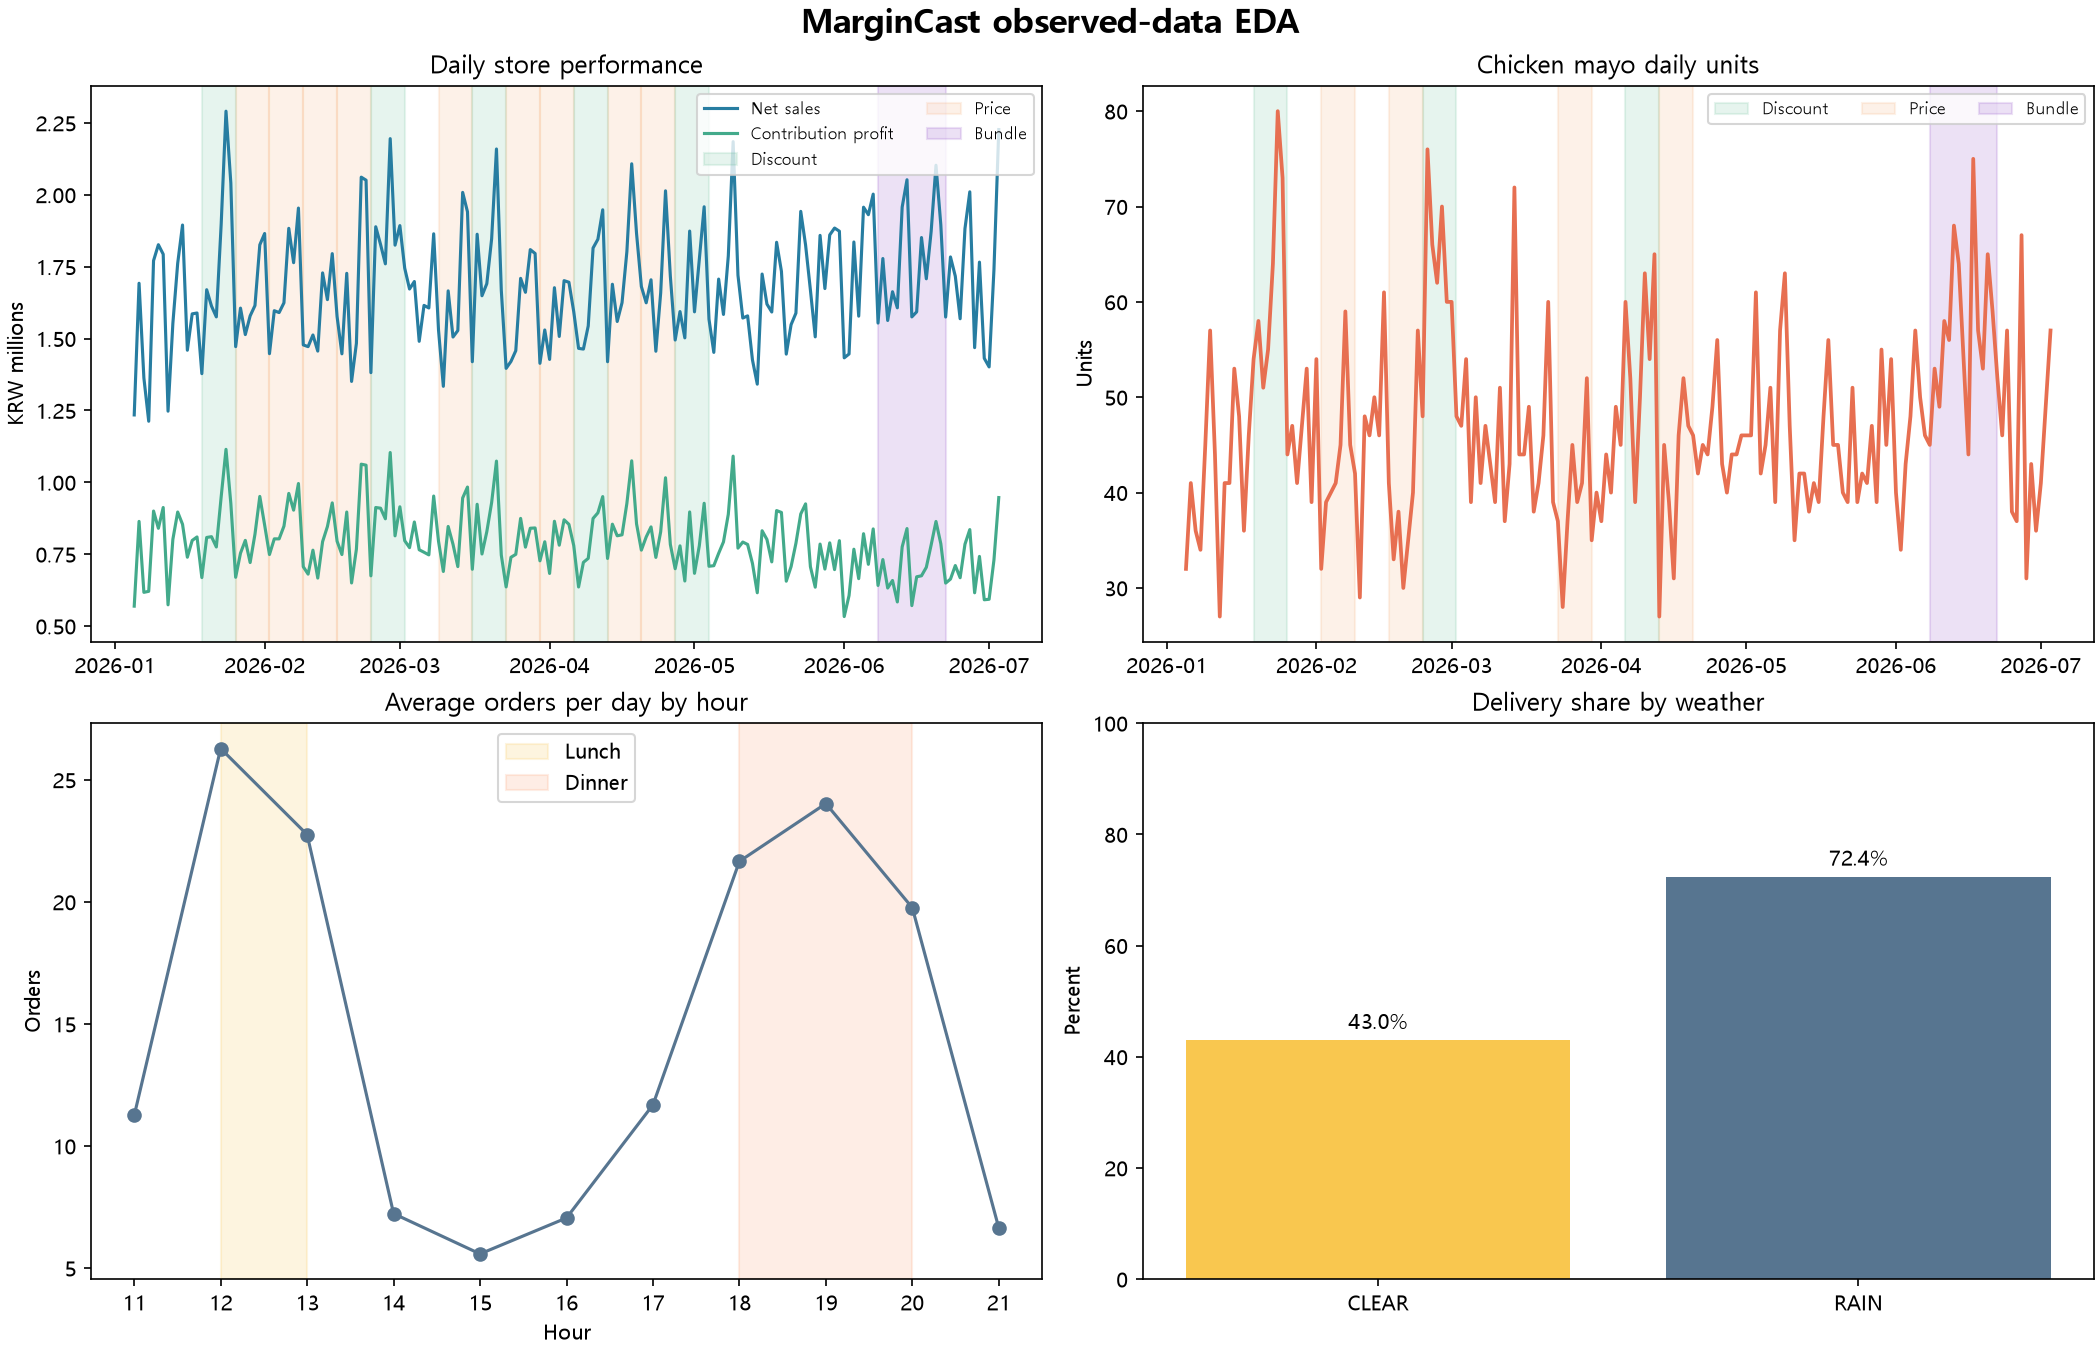
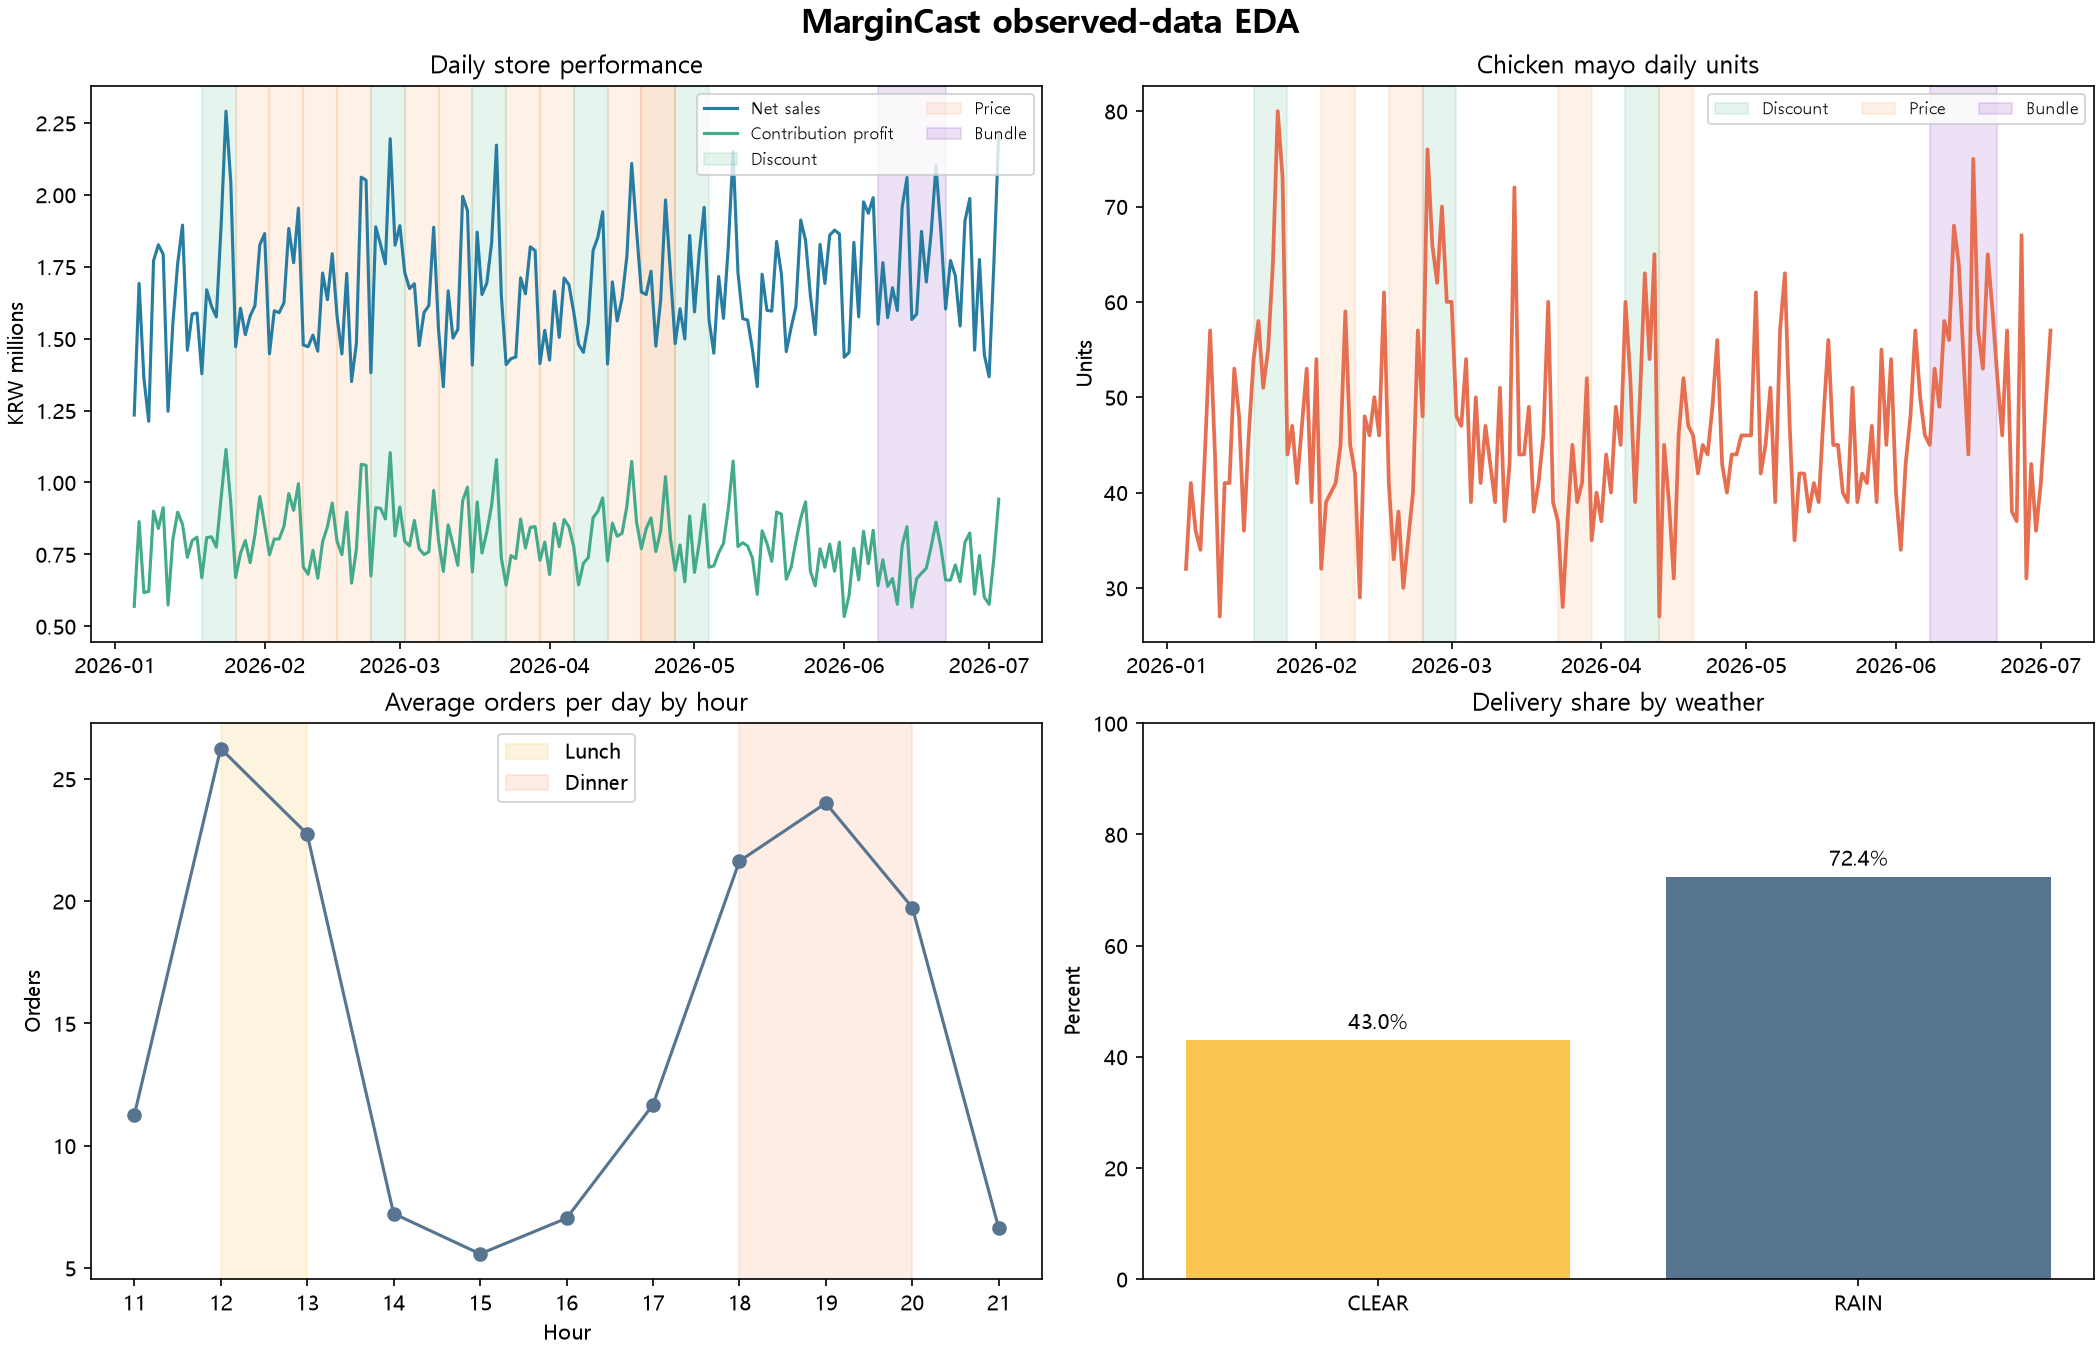
data: M03 가격 실험 반복 관측 보강

diff --git a/src/generate_data.py b/src/generate_data.py
@@ -1,4 +1,4 @@
-"""알려진 수요 규칙으로 90일 POS 데이터와 평가 전용 정답을 생성한다."""
+"""알려진 수요 규칙으로 180일 POS 데이터와 평가 전용 정답을 생성한다."""
 
 import argparse
 import csv
@@ -26,11 +26,13 @@ PRICE_EXPERIMENTS = [
     {"experiment_id": "E03", "menu_id": "M01", "start_day": 29, "end_day": 35, "price": 9500},
     {"experiment_id": "E04", "menu_id": "M03", "start_day": 36, "end_day": 42, "price": 10000},
     {"experiment_id": "E05", "menu_id": "M01", "start_day": 43, "end_day": 49, "price": 10000},
+    {"experiment_id": "E16", "menu_id": "M03", "start_day": 57, "end_day": 63, "price": 10000},
     {"experiment_id": "E07", "menu_id": "M02", "start_day": 64, "end_day": 70, "price": 11000},
     {"experiment_id": "E09", "menu_id": "M01", "start_day": 78, "end_day": 84, "price": 9500},
     {"experiment_id": "E10", "menu_id": "M03", "start_day": 85, "end_day": 91, "price": 10500},
     {"experiment_id": "E12", "menu_id": "M01", "start_day": 99, "end_day": 105, "price": 10000},
     {"experiment_id": "E13", "menu_id": "M02", "start_day": 106, "end_day": 112, "price": 10500},
+    {"experiment_id": "E17", "menu_id": "M03", "start_day": 106, "end_day": 112, "price": 10500},
 ]
 PROMOTION_EXPERIMENTS = [
     {"experiment_id": "E01", "promotion_id": "P01", "menu_id": "M01", "start_day": 15, "end_day": 21, "discount": 1000},

diff --git a/tests/test_run_eda.py b/tests/test_run_eda.py
@@ -39,7 +39,7 @@ class EdaTests(unittest.TestCase):
         self.assertGreater(summary["association_before_bundle"]["lift"], 1)
         experiment_targets = {row["menu_id"] for row in summary["observed_experiments"]}
         self.assertEqual(experiment_targets, {"M01", "M02", "M03"})
-        self.assertEqual(len(summary["observed_experiments"]), 15)
+        self.assertEqual(len(summary["observed_experiments"]), 17)
         self.assertEqual(summary["modeling_contract"]["target"], "units_sold")
         self.assertIn("contribution_profit", summary["modeling_contract"]["exclude_from_demand_features"])
 

diff --git a/tests/test_generate_data.py b/tests/test_generate_data.py
@@ -89,6 +89,8 @@ class DatasetTests(unittest.TestCase):
         self.assertEqual(set(price_by_menu), {"M01", "M02", "M03"})
         self.assertGreaterEqual(price_by_menu["M01"].count(9500), 2)
         self.assertGreaterEqual(price_by_menu["M01"].count(10000), 2)
+        self.assertGreaterEqual(price_by_menu["M03"].count(10000), 2)
+        self.assertGreaterEqual(price_by_menu["M03"].count(10500), 2)
         promotion_by_menu = defaultdict(int)
         for event in PROMOTION_EXPERIMENTS:
             promotion_by_menu[event["menu_id"]] += 1

diff --git a/docs/synthetic-data.md b/docs/synthetic-data.md
@@ -25,12 +25,12 @@
 | 파일 | 행 수(seed 42) | 단위와 주요 필드 |
 |---|---:|---|
 | menus.csv | 8 | 메뉴별 `menu_id`, `menu_name`, `category`, `initial_list_price` |
-| orders.csv | 29,512 | 주문별 `order_id`, `ordered_at`, `date`, `day_index`, `hour`, `weather`, `channel`, 금액 합계 |
-| order_items.csv | 41,593 | 주문상품별 `order_item_id`, `order_id`, `menu_id`, `quantity`, `list_price`, `unit_cost`, `promotion_id`, `bundle_id`, 금액 |
+| orders.csv | 29,473 | 주문별 `order_id`, `ordered_at`, `date`, `day_index`, `hour`, `weather`, `channel`, 금액 합계 |
+| order_items.csv | 41,510 | 주문상품별 `order_item_id`, `order_id`, `menu_id`, `quantity`, `list_price`, `unit_cost`, `promotion_id`, `bundle_id`, 금액 |
 | menu_cost_history.csv | 15 | 메뉴·적용일별 `menu_id`, `effective_date`, `unit_cost` |
 | promotions.csv | 5 | 할인 기간·메뉴·단위당 할인액·비용 부담자 |
 | bundles.csv | 1 | 세트 ID·주메뉴 ID·음료 ID·기간·세트 가격 |
-| experiments.csv | 15 | 실험 ID·종류·메뉴·시작/종료일·값 |
+| experiments.csv | 17 | 실험 ID·종류·메뉴·시작/종료일·값 |
 | daily_context.csv | 180 | 날짜·요일(월=0)·날씨·영업 시작/종료시 |
 | ground_truth.json | — | 생성 파라미터, seed, 실행 환경, 잠재 수요, 세트 전환 출처 및 대조 결과 |
 | validation_report.json | — | 정합성/관계 검증, 관측값과 가상 대조값, 경고, 재현성 해시 |
@@ -84,8 +84,8 @@ Q ~ Poisson(lambda)
 | M02 | 가격 | 22~28, 106~112 | 10,500원 | 같은 가격 2회 |
 | M02 | 가격 | 64~70 | 11,000원 | 두 번째 가격 수준 |
 | M02 | 할인 | 71~77, 113~119 | 1,000원 | 같은 할인 2회 |
-| M03 | 가격 | 36~42 | 10,000원 | 다른 메뉴 가격 근거 |
-| M03 | 가격 | 85~91 | 10,500원 | 두 번째 가격 수준 |
+| M03 | 가격 | 36~42, 57~63 | 10,000원 | 같은 가격 2회 |
+| M03 | 가격 | 85~91, 106~112 | 10,500원 | 같은 가격 2회 |
 | M01+M06 | 세트 | 155~168 | 10,000원 | 신규·전환·잠식 분해 |
 
 각 실험 뒤에는 초기 가격으로 돌아간다. 모든 가격·할인 실험은 Day 120 안에 있어
@@ -119,8 +119,8 @@ STORE: 플랫폼 0%, 결제 2%. DELIVERY: 플랫폼 15%, 결제 3%.
 
 | 유형 | 생성 규칙 | seed 42 결과 |
 |---|---|---:|
-| chicken_only | 기존 치킨마요 구매자 중 콜라가 없는 경우 35% 전환 | 180 |
-| copurchase | 기존 치킨마요+콜라 구매자 중 65% 전환 | 128 |
+| chicken_only | 기존 치킨마요 구매자 중 콜라가 없는 경우 35% 전환 | 184 |
+| copurchase | 기존 치킨마요+콜라 구매자 중 65% 전환 | 119 |
 | other_main | 다른 주메뉴 고객의 2.5%가 치킨마요로 교체 | 54 |
 | incremental | 일별 기존 치킨마요 주문 수 × 0.12를 평균으로 한 Poisson 신규 주문 | 95 |
 
@@ -132,12 +132,12 @@ STORE: 플랫폼 0%, 결제 2%. DELIVERY: 플랫폼 15%, 결제 3%.
 정가 합계 11,000원에서 할인 1,000원을 치킨마요 818원·콜라 182원으로 나눠
 구성품 실결제 금액 합계를 정확히 10,000원으로 맞춘다.
 
-세트 457건 중 신규는 95건(20.79%)이고 기존 주문 전환은 362건이다.
+세트 452건 중 신규는 95건(21.02%)이고 기존 주문 전환은 357건이다.
 동일 고객 수요의 세트 미실시 대조에서는 2,315건, 실시에서는 2,410건이다.
-기존 주문 전환으로 M06 232개가 추가되고 다른 주메뉴 54개가 M01로 교체된다.
+기존 주문 전환으로 M06 237개가 추가되고 다른 주메뉴 54개가 M01로 교체된다.
 교체된 주메뉴는 M02 22개, M03 14개, M04 18개다.
-신규 세트는 M01·M06을 각각 95개 추가한다. 같은 대조 대비 매출은 1,041,000원,
-기여이익은 211,820원 증가했다. 이 분해는 `bundle_audit`에 별도 필드로 저장된다.
+신규 세트는 M01·M06을 각각 95개 추가한다. 같은 대조 대비 매출은 1,056,000원,
+기여이익은 222,060원 증가했다. 이 분해는 `bundle_audit`에 별도 필드로 저장된다.
 검증기는 전환된 주문을 원래 메뉴로 되돌렸을 때 메뉴별 수량까지 대조와 일치하는지 검사한다.
 
 ## 관측 결과와 가상 대조를 구분하는 이유
@@ -157,31 +157,32 @@ STORE: 플랫폼 0%, 결제 2%. DELIVERY: 플랫폼 15%, 결제 3%.
 | M02 1,000원 할인 2회 | +24.26%, +23.13% |
 | M02 10,500원 2회 | -4.30%, -6.35% |
 | M02 11,000원 | -9.67% |
-| M03 10,000원·10,500원 | -5.67%, -12.17% |
+| M03 10,000원 2회 | -5.67%, -5.34% |
+| M03 10,500원 2회 | -12.17%, -8.25% |
 
 모든 할인 실험에서 무개입 수요 < 가격 효과만 적용한 수요 < 프로모션 노출까지 적용한 수요의
 순서가 확인됐다. 이는 생성 규칙의 검증이며 현실의 인과효과를 검증한 결과는 아니다.
 
 추가 관측 결과(seed 42):
 
-- 하루·시간당 주문: 점심 24.52건, 저녁 21.82건, 14~16시 6.62건.
-- 일평균 주문: 평일 156.97건, 주말 182.12건.
-- 배달 비중: 맑음 43.00%, 비 72.39%.
-- 원가 상승 전후(Day 134~140→142~148): 기여이익률 48.35%→40.82%.
-- 세트 도입 전(Day 1~154): 치킨마요 고객의 콜라 구매율 28.23%,
-  전체 콜라 구매율 10.43%, 다른 주메뉴 고객의 콜라 구매율 3.37%, Lift 2.71.
+- 하루·시간당 주문: 점심 24.49건, 저녁 21.79건, 14~16시 6.61건.
+- 일평균 주문: 평일 156.75건, 주말 181.90건.
+- 배달 비중: 맑음 42.99%, 비 72.39%.
+- 원가 상승 전후(Day 134~140→142~148): 기여이익률 48.31%→40.75%.
+- 세트 도입 전(Day 1~154): 치킨마요 고객의 콜라 구매율 28.00%,
+  전체 콜라 구매율 10.36%, 다른 주메뉴 고객의 콜라 구매율 3.36%, Lift 2.70.
 
 ## 검증과 한계
 
 기본 seed와 7·19·101·2026, 다른 시작일을 검증했다. 정합성 검사에 더해 기본 데이터의
-관계 검사 36개가 통과했고 관측 방향 경고는 없었다.
+관계 검사 37개가 통과했고 관측 방향 경고는 없었다.
 외래키 손상, 할인 중복 차감, 미래 원가 적용, 세트 구성품 누락, 숨겨진 정답 유입,
 Ground Truth 수량 변조와 저장 파일 변조를 검출하는 테스트가 포함된다.
 
 검증기의 `passed`는 정합성과 필수 관계 검사 통과를 뜻한다.
 다른 seed에서 관측 가격 구간의 방향이나 매출 증가/이익 감소 데모 방향이 어긋나면
 `warnings`에 기록한다. `passed`만 보고 모든 관측 방향이 충족됐다고 해석하면 안 된다.
-임의의 모든 seed에 대해 90일 표본의 관계를 보장하는 것은 아니다.
+임의의 모든 seed에 대해 180일 표본의 관계를 보장하는 것은 아니다.
 
 학습 때 Ground Truth와 검증 보고서를 입력에 넣지 않는다. 거래/달력 CSV에서
 0건 셀을 포함한 과거 수요를 집계하고, 원가·가격·프로모션은 해당 시점 정보를 조인한다.

diff --git a/reports/eda/README.md b/reports/eda/README.md
@@ -8,24 +8,24 @@
 
 - 기간: 2026-01-05~2026-07-03 (180일)
 - 분석 패널: 31,680행
-- 0판매 셀: 12,228행 (38.60%)
-- 주문: 29,512건, 판매 수량: 41,593개
-- 실결제 매출: 303,074,000원
-- 기여이익: 142,572,020원, 기여이익률: 47.04%
+- 0판매 셀: 12,252행 (38.67%)
+- 주문: 29,473건, 판매 수량: 41,510개
+- 실결제 매출: 303,005,000원
+- 기여이익: 142,676,810원, 기여이익률: 47.09%
 
 0판매 셀도 학습 패널에 포함했다. 판매가 발생한 행만 사용하면 수요가 없었던 조건이 사라져
 수요 수준과 가격·시간 효과가 왜곡될 수 있다.
 
 ## 주요 패턴
 
-- 하루·시간당 평균 주문: 점심 24.52건, 저녁 21.82건,
-  14~16시 6.62건.
-- 일평균 주문: 평일 156.97건,
-  주말 182.12건.
-- 배달 비중: 맑음 43.00%, 비 72.39%.
-- 세트 도입 전 치킨마요→콜라 confidence 28.23%,
-  전체 콜라 주문률 10.43%, Lift 2.71.
-- 관측된 세트 주문: 457건.
+- 하루·시간당 평균 주문: 점심 24.49건, 저녁 21.79건,
+  14~16시 6.61건.
+- 일평균 주문: 평일 156.75건,
+  주말 181.90건.
+- 배달 비중: 맑음 42.99%, 비 72.39%.
+- 세트 도입 전 치킨마요→콜라 confidence 28.00%,
+  전체 콜라 주문률 10.36%, Lift 2.70.
+- 관측된 세트 주문: 452건.
 
 ## 메뉴별 성과
 
@@ -34,13 +34,13 @@
 | 메뉴 | 판매 수량 | 실결제 매출(원) | 기여이익(원) | 기여이익률 |
 |---|---:|---:|---:|---:|
 | 돈까스덮밥 | 7,858 | 78,367,500 | 35,961,070 | 45.89% |
-| 치킨마요 | 8,482 | 75,555,174 | 32,742,082 | 43.34% |
-| 제육덮밥 | 7,199 | 68,738,000 | 32,374,260 | 47.10% |
+| 치킨마요 | 8,482 | 75,559,264 | 32,745,828 | 43.34% |
+| 제육덮밥 | 7,160 | 68,767,500 | 32,560,310 | 47.35% |
 | 카레 | 5,973 | 47,784,000 | 24,124,760 | 50.49% |
-| 감자튀김 | 3,757 | 13,149,500 | 7,095,790 | 53.96% |
-| 미니우동 | 2,915 | 8,745,000 | 4,522,100 | 51.71% |
-| 콜라 | 3,385 | 6,686,826 | 3,629,638 | 54.28% |
-| 제로콜라 | 2,024 | 4,048,000 | 2,122,320 | 52.43% |
+| 감자튀김 | 3,752 | 13,132,000 | 7,065,200 | 53.80% |
+| 미니우동 | 2,907 | 8,721,000 | 4,508,000 | 51.69% |
+| 콜라 | 3,357 | 6,631,736 | 3,601,272 | 54.30% |
+| 제로콜라 | 2,021 | 4,042,000 | 2,110,370 | 52.21% |
 
 ## 메뉴별 실험 전후 관측값
 
@@ -54,6 +54,7 @@
 | 제육덮밥 | PRICE | 2026-02-09~2026-02-15 | 41.00 | 33.29 | -18.82% |
 | 치킨마요 | PRICE | 2026-02-16~2026-02-22 | 46.00 | 39.14 | -14.91% |
 | 치킨마요 | DISCOUNT | 2026-02-23~2026-03-01 | 39.14 | 63.14 | +61.31% |
+| 제육덮밥 | PRICE | 2026-03-02~2026-03-08 | 44.14 | 38.00 | -13.92% |
 | 돈까스덮밥 | PRICE | 2026-03-09~2026-03-15 | 43.57 | 38.71 | -11.15% |
 | 돈까스덮밥 | DISCOUNT | 2026-03-16~2026-03-22 | 38.71 | 54.14 | +39.85% |
 | 치킨마요 | PRICE | 2026-03-23~2026-03-29 | 45.29 | 39.86 | -11.99% |
@@ -61,6 +62,7 @@
 | 치킨마요 | DISCOUNT | 2026-04-06~2026-04-12 | 41.43 | 54.71 | +32.07% |
 | 치킨마요 | PRICE | 2026-04-13~2026-04-19 | 54.71 | 41.00 | -25.07% |
 | 돈까스덮밥 | PRICE | 2026-04-20~2026-04-26 | 47.14 | 40.00 | -15.15% |
+| 제육덮밥 | PRICE | 2026-04-20~2026-04-26 | 42.57 | 38.14 | -10.40% |
 | 돈까스덮밥 | DISCOUNT | 2026-04-27~2026-05-03 | 40.00 | 54.00 | +35.00% |
 | 치킨마요 | BUNDLE | 2026-06-08~2026-06-21 | 45.79 | 57.14 | +24.80% |
 
@@ -86,6 +88,6 @@
 ## 해석 한계
 
 - 실험 전후 비교는 날씨와 표본 변동을 통제한 인과효과가 아니다.
-- 세트 주문 457건 중 신규 수요와 기존 주문 전환은 POS만으로 구분할 수 없다.
+- 세트 주문 452건 중 신규 수요와 기존 주문 전환은 POS만으로 구분할 수 없다.
 - 세트 실험은 Test 구간에만 있어 일반 수요 모델 학습에는 사용할 수 없다.
 - 미래 수요 예측 시 실제 미래 날씨 대신 예보 또는 시나리오 입력이 필요하다.

diff --git a/README.md b/README.md
@@ -56,8 +56,8 @@ margin-cast/
 별도 폴더를 검증할 때는 `--data-dir 경로`를 지정합니다.
 데이터를 다시 생성했다면 검증도 다시 실행해 `validation_report.json`을 갱신합니다.
 
-기본 seed 결과: 주문 **29,512건**, 주문상품 **41,593건**입니다.
-M01·M02·M03 가격 실험 9개, M01·M02 할인 실험 5개, 세트 실험 1개를 포함합니다.
+기본 seed 결과: 주문 **29,473건**, 주문상품 **41,510건**입니다.
+M01·M02·M03 가격 실험 11개, M01·M02 할인 실험 5개, 세트 실험 1개를 포함합니다.
 관측 데이터·실험 정의는 CSV 8개, 숨겨진 생성 파라미터와 대조 결과는
 `data/ground_truth.json`, 검증 결과는 `data/validation_report.json`에 저장됩니다.
 생성 CSV/JSON은 기존 `.gitignore` 정책에 따라 Git에서 제외합니다.
